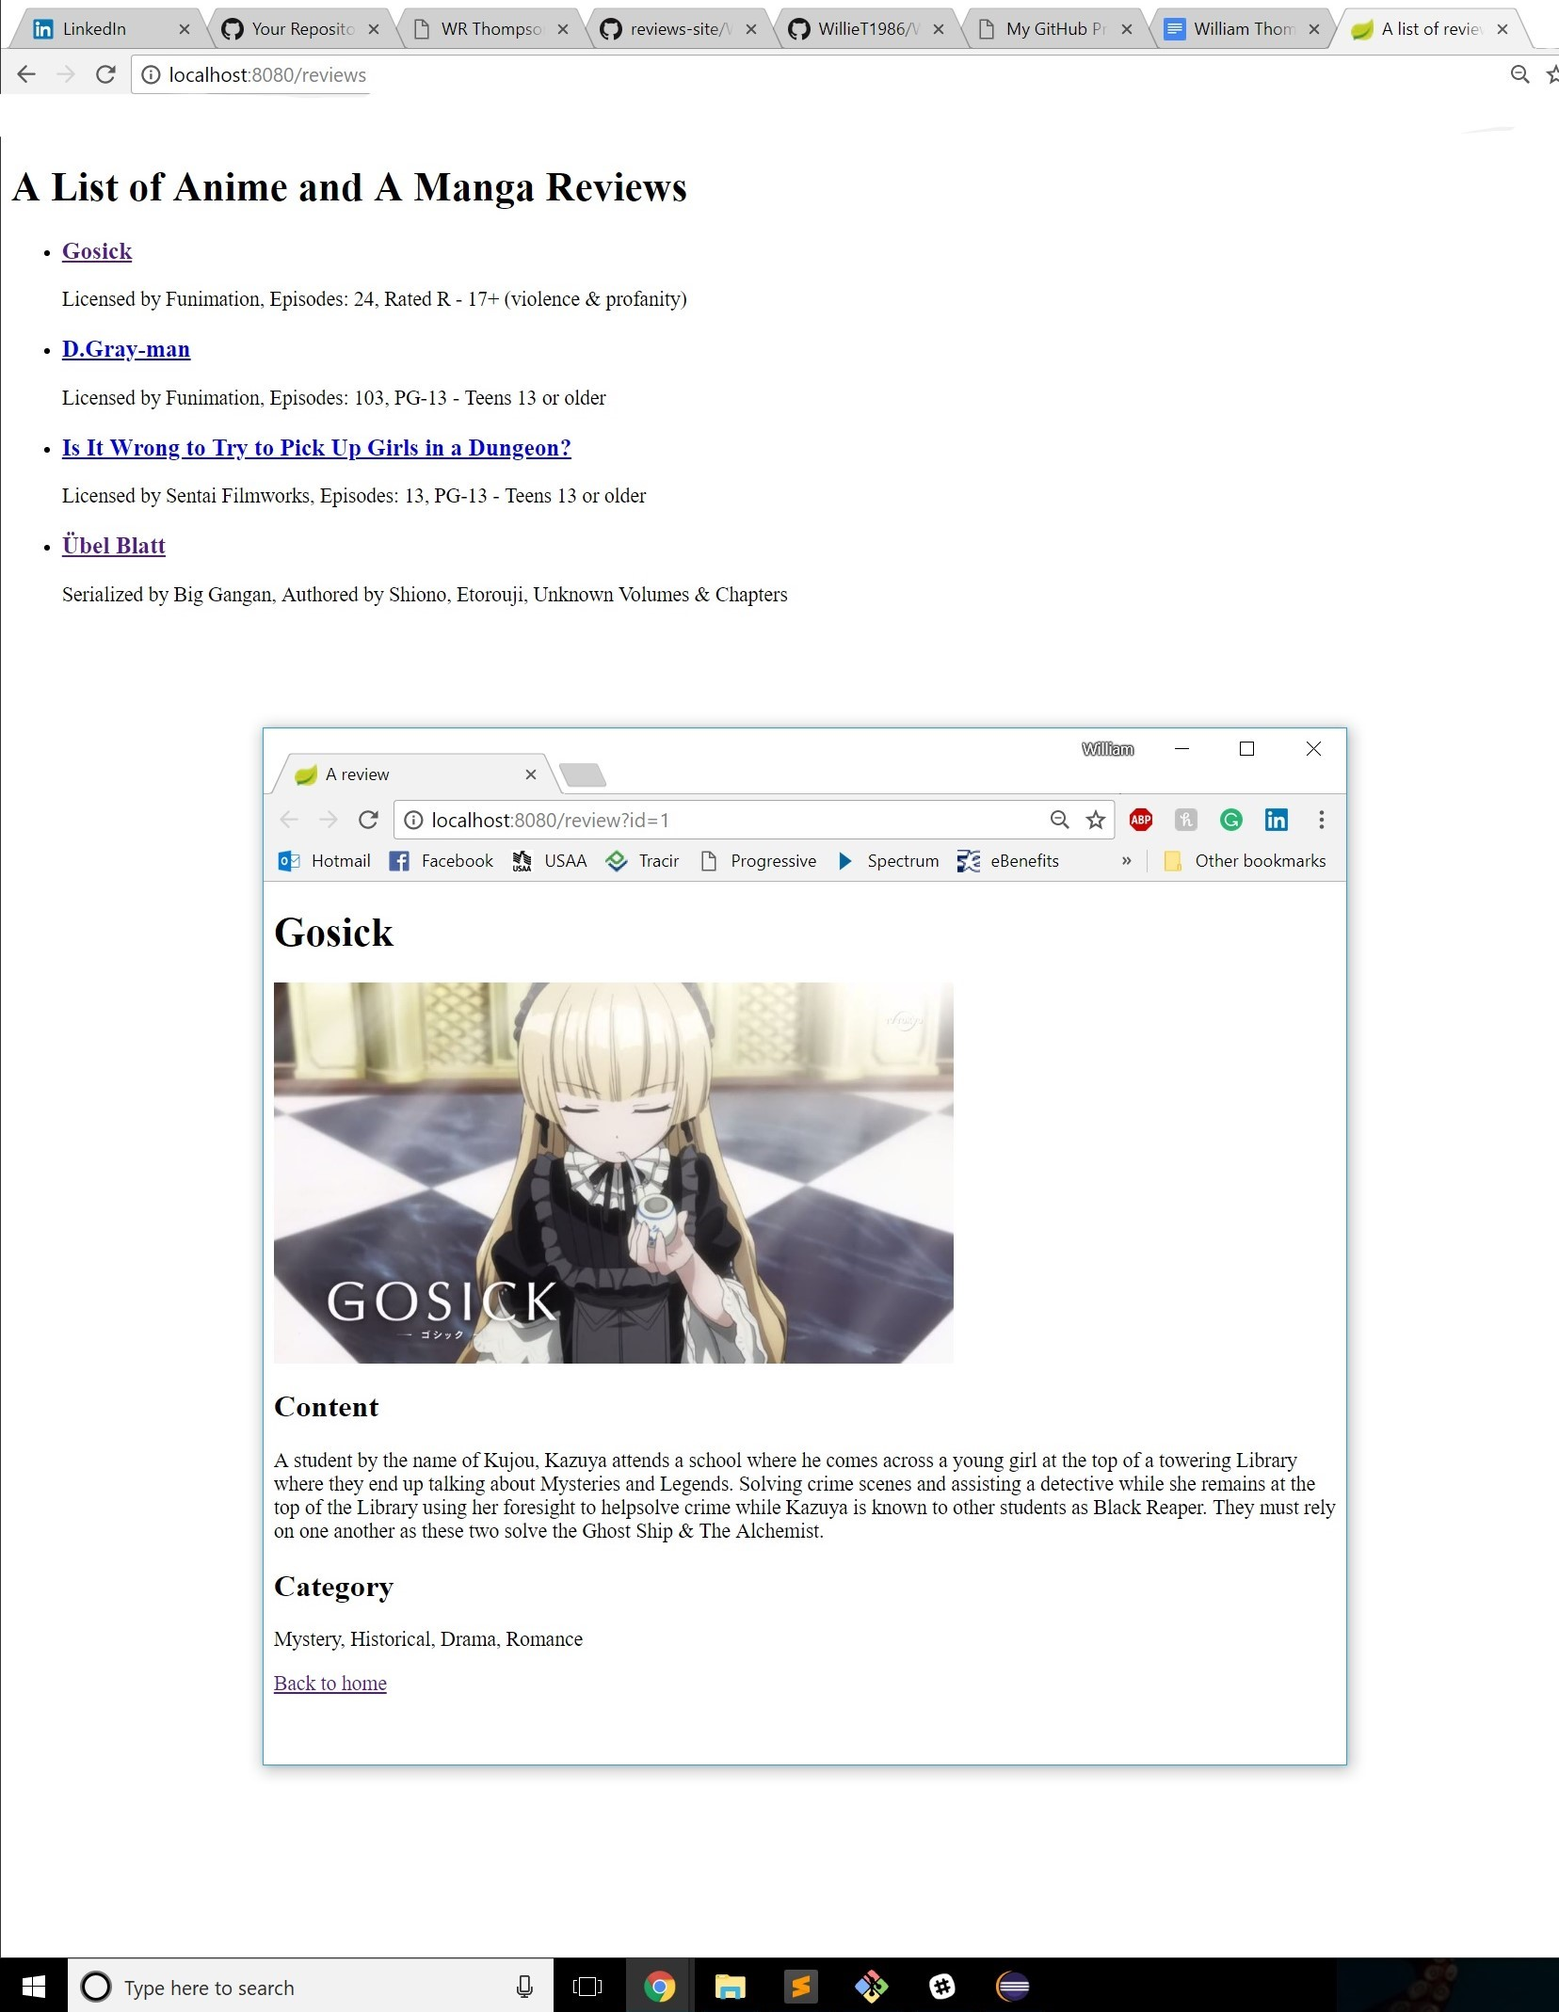
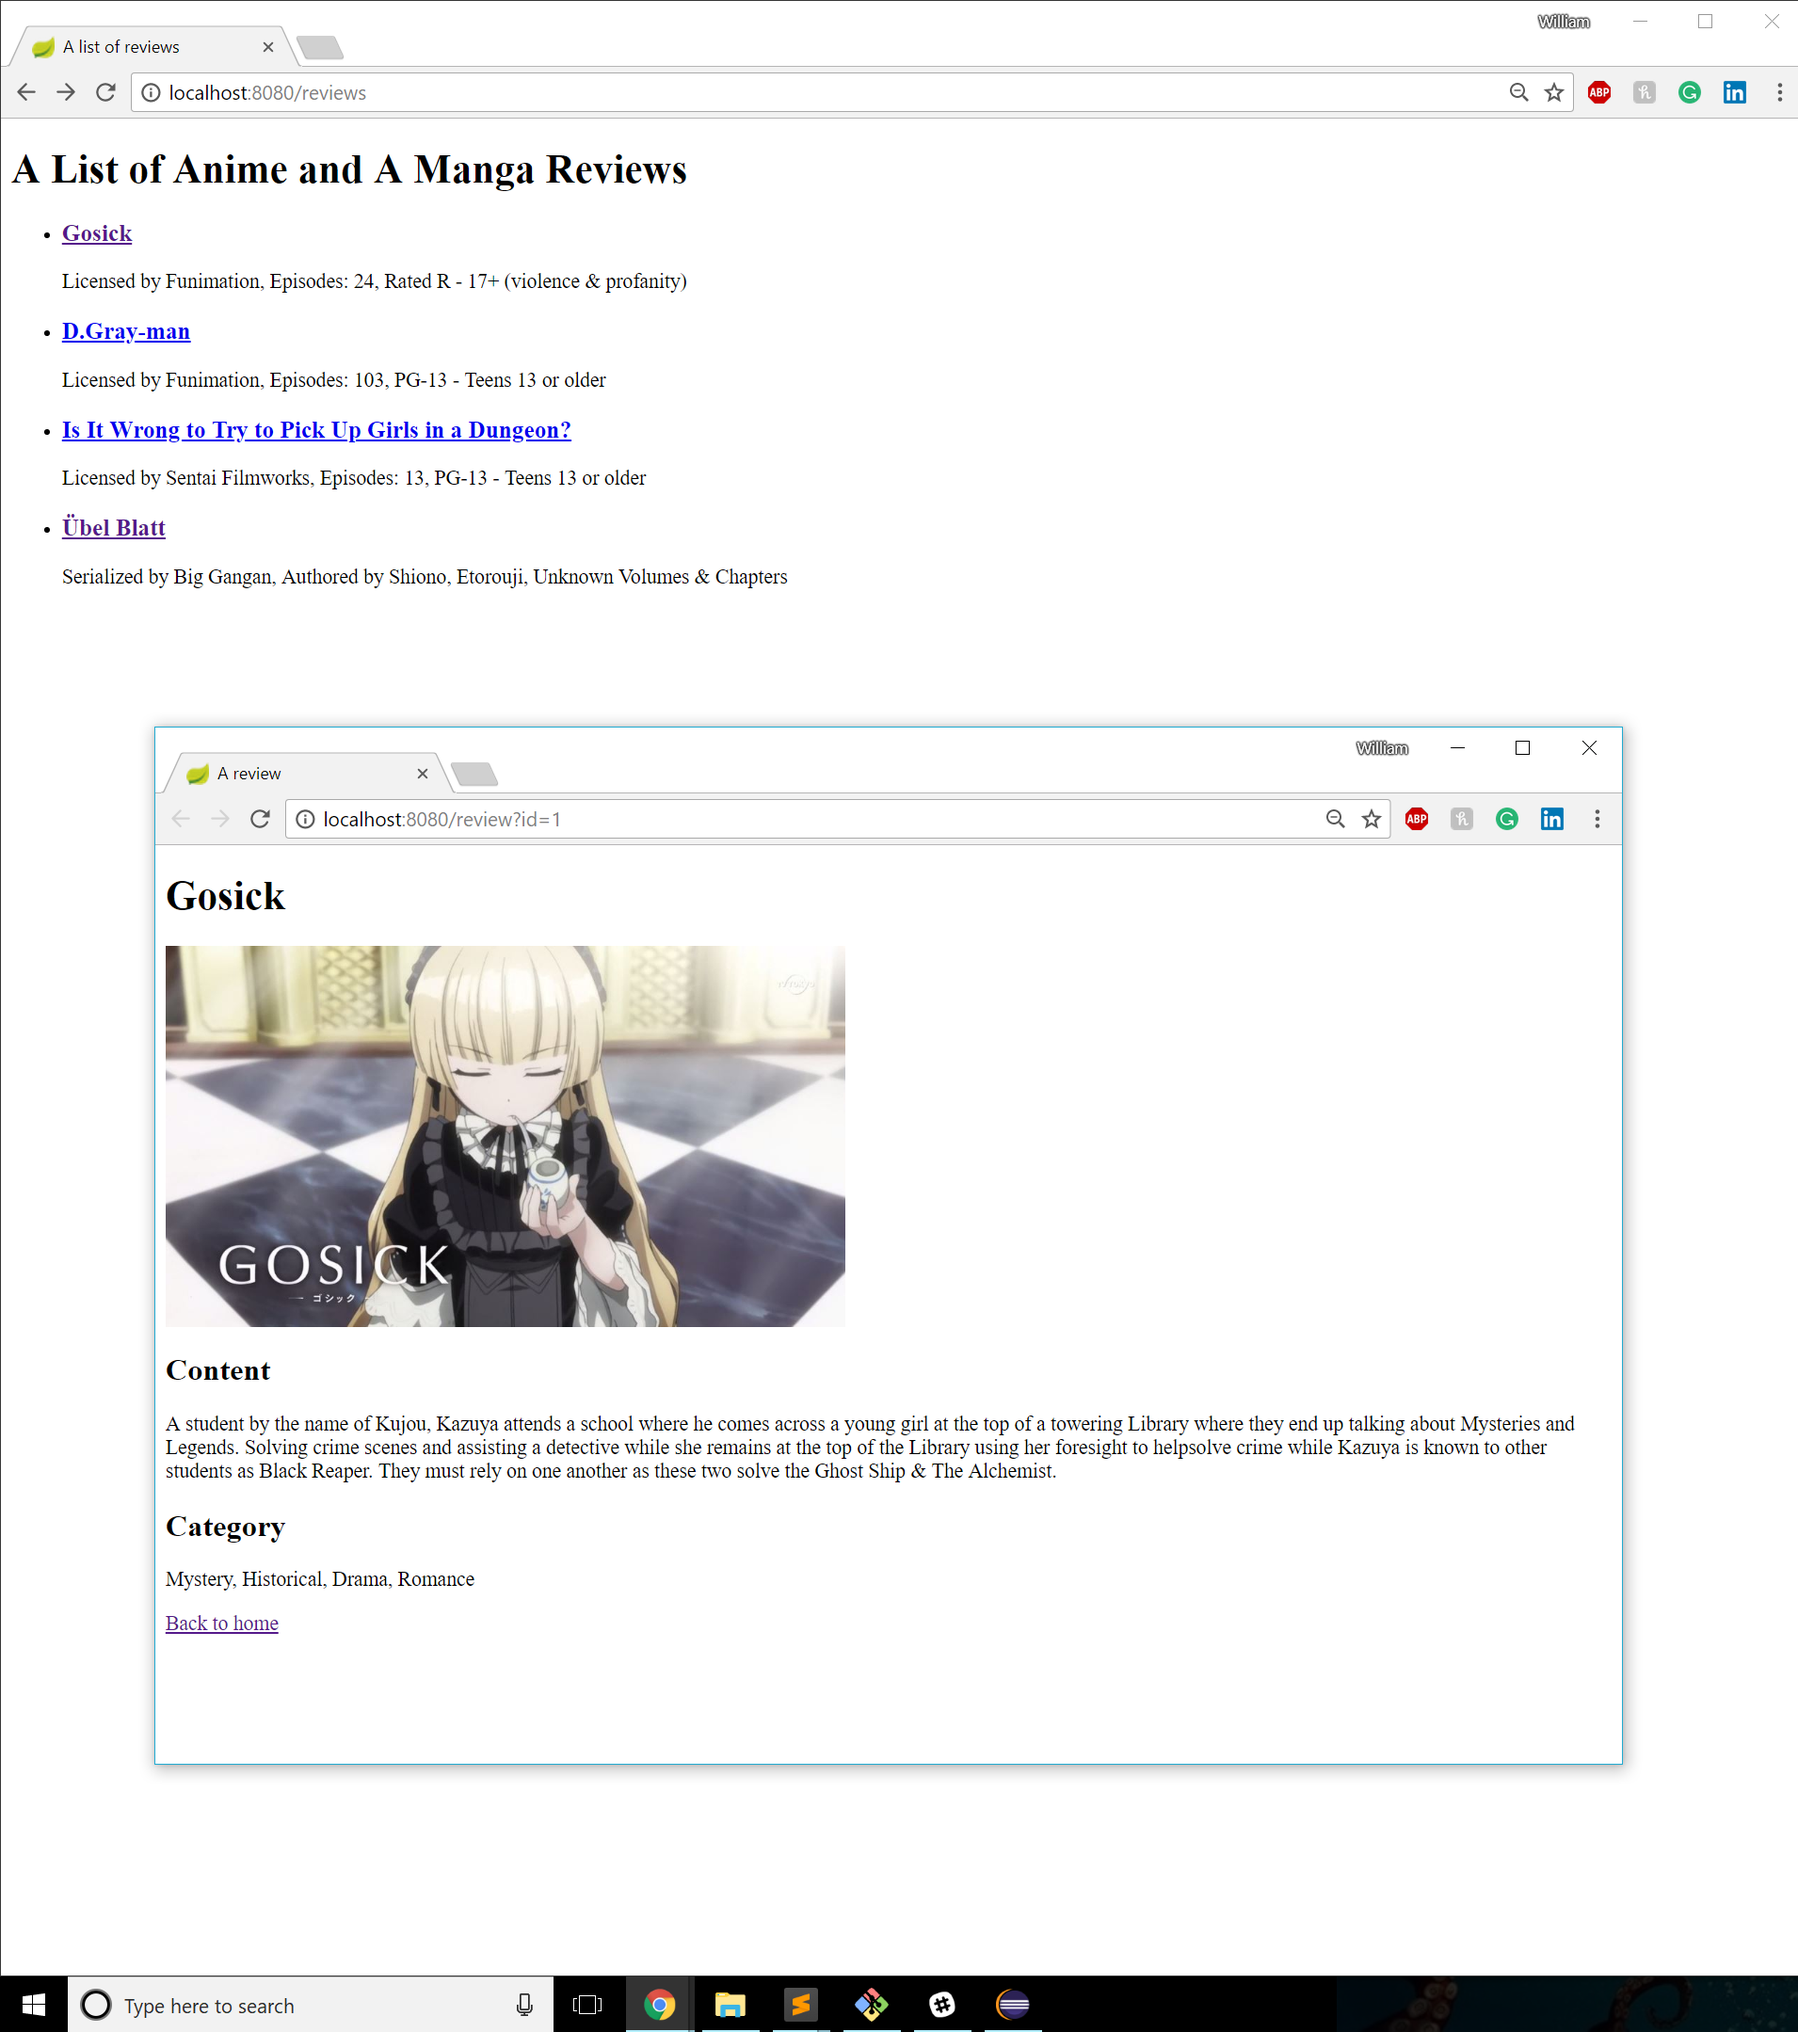
Replaced review1.jpg with correct review1.jpg. Added image, description and tools to reviews site full stack card.

diff --git a/git-projects.html b/git-projects.html
@@ -125,20 +125,15 @@
 					<article class="card">
 						<h3><a href="https://github.com/WillieT1986/reviews-site-full-stack">Reviews Site Full Stack</a></h3>
 						<p>This was the weekend 7 project at WeCan{Code}IT.</p>
-						<p>Lorem ipsum dolor sit amet, consectetur adipisicing elit, sed do eiusmod
-							tempor incididunt ut labore et dolore magna aliqua. Ut enim ad minim veniam,
-							quis nostrud exercitation ullamco laboris nisi ut aliquip ex ea commodo
-							consequat. Duis aute irure dolor in reprehenderit in voluptate velit esse
-							cillum dolore eu fugiat nulla pariatur. Excepteur sint occaecat cupidatat non
-						proident, sunt in culpa qui officia deserunt mollit anim id est laborum.</p>					
-						<img id="project-image" class="myImg" src="src/static/images/fortune-teller.jpg" alt="ProjectName" width="200px" height="172px">					
+						<p>This is the second iteration to Review Site but now it is being made into a Full Stack Web Application. This site has a list of categories that for now, has only one category that holds several reivews. When the User clicks on the review it will show the details of the review. Now, tags have been added to the mix. Each review is associated with a tag and when the User clicks on a specific tag all the reviews associated with that tag will appear.</p>					
+						<img id="project-image" class="myImg" src="src/static/images/review2.png" alt="Reviews Site version 2.0" width="200px" height="172px">					
 						<div id="myModal" class="modal">
 							<span class="close" onclick="document.getElementById('myModal').style.display='none'">&times;</span>
 							<img class="modal-content" id="img01">					
 							<div id="caption"></div>
 						</div>					
-						<p>Skills: skill1 | skill2 | skill3 | Git</p>
-						<p>Tools: Eclipse IDE</p>
+						<p>Skills: Java | OOP | TDD | Spring | Thymeleaf | SQL | Hibernate | HTML5 | CSS3 | Git</p>
+						<p>Tools: Eclipse IDE | Sublime 3</p>
 					</article>				
 					<article class="card">
 						<h3><a href="https://github.com/WillieT1986/fortune-teller">GitHub Portfolio: Generation JScript</a></h3>
